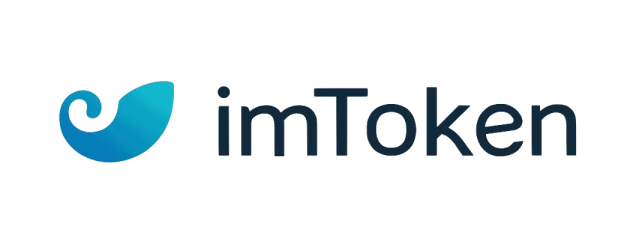
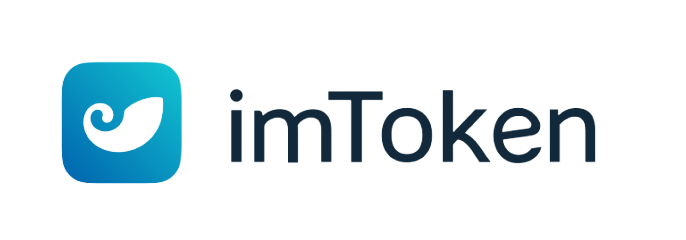
chore: add and update sponsors

Changed region(s): [[0.3125, 0.35, 0.9062, 0.7], [0.0625, 0.2333, 0.2812, 0.7875]]

diff --git a/public/constant/sponsors.ts b/public/constant/sponsors.ts
@@ -9,6 +9,13 @@ import {
   seleneUrl,
   zommaUrl,
   bloctoUrl,
+  gnosisChainUrl,
+  imTokenUrl,
+  dedaubUrl,
+  thunderCoreUrl,
+  furucomboUrl,
+  teaHouseUrl,
+  zkSyncUrl,
 } from "./urls";
 
 import code4Rena from "@/public/images/code4Rena.png";
@@ -21,6 +28,13 @@ import perpetual from "@/public/images/perpetual.png";
 import quantstamp from "@/public/images/quantstamp.png";
 import zomma from "@/public/images/zomma.png";
 import blocto from "@/public/images/Blocto.png";
+import gnosisChain from "@/public/images/gnosisChain.png";
+import imToken from "@/public/images/imToken.png";
+import dedaub from "@/public/images/dedaub.png";
+import thunderCore from "@/public/images/thunderCore.png";
+import furcombo from "@/public/images/furcombo.png";
+import teaHouse from "@/public/images/teaHouse.png";
+import zkSync from "@/public/images/zkSync.png";
 
 import { StaticImageData } from "next/image";
 
@@ -34,29 +48,50 @@ type OrganizerProps = {
 
 const goldSponsors: OrganizerProps[] = [
   {
+    name: "Gnosis Chain",
+    url: gnosisChainUrl,
+    logo: gnosisChain,
+    width: 760,
+    height: 180,
+  },
+  {
+    name: "ImToken",
+    url: imTokenUrl,
+    logo: imToken,
+    width: 456,
+    height: 160,
+  },
+  {
     name: "Autopass",
     url: autopassUrl,
     logo: autopass,
-    width: 363,
+    width: 292,
     height: 150,
   },
   {
     name: "Tenderly",
     url: tenderlyUrl,
     logo: tenderly,
-    width: 400,
+    width: 300,
     height: 150,
   },
   {
     name: "Term Structure",
     url: termStructureUrl,
     logo: termStructure,
-    width: 418,
+    width: 300,
     height: 150,
   },
 ];
 
 const silverSponsors: OrganizerProps[] = [
+  {
+    name: "DEDAUB",
+    url: dedaubUrl,
+    logo: dedaub,
+    width: 351,
+    height: 90,
+  },
   {
     name: "quantstamp",
     url: quantstampUrl,
@@ -65,6 +100,13 @@ const silverSponsors: OrganizerProps[] = [
     height: 120,
   },
   { name: "Selene", url: seleneUrl, logo: selene, width: 291, height: 120 },
+  {
+    name: "ThunderCore",
+    url: thunderCoreUrl,
+    logo: thunderCore,
+    width: 366,
+    height: 100,
+  },
 ];
 
 const bronzeSponsors: OrganizerProps[] = [
@@ -90,10 +132,31 @@ const bronzeSponsors: OrganizerProps[] = [
     height: 80,
   },
   {
+    name: "Furucombo",
+    url: furucomboUrl,
+    logo: furcombo,
+    width: 256,
+    height: 80,
+  },
+  {
     name: "perpetual",
     url: perpetualUrl,
     logo: perpetual,
     width: 342,
+    height: 80,
+  },
+  {
+    name: "Teahouse",
+    url: teaHouseUrl,
+    logo: teaHouse,
+    width: 210,
+    height: 80,
+  },
+  {
+    name: "zkSync",
+    url: zkSyncUrl,
+    logo: zkSync,
+    width: 242,
     height: 80,
   },
   {

diff --git a/components/HomePage/Sponsors.tsx b/components/HomePage/Sponsors.tsx
@@ -16,37 +16,15 @@ const Sponsors = () => {
       <MainContent>
         <Title>{t.homepage.sponsors}</Title>
         <SponsorsContainer>
-          {goldSponsors.map((s) => (
-            <GoldSponsorBtn key={s.name} onClick={() => openNewTab(s.url)}>
-              <Image
+          {[...goldSponsors, ...silverSponsors, ...bronzeSponsors].map((s) => (
+            <SponsorBtn key={s.name} onClick={() => openNewTab(s.url)}>
+              <StyledImage
                 src={s.logo}
                 alt={s.name}
                 width={s.width}
                 height={s.height}
               />
-            </GoldSponsorBtn>
-          ))}
-
-          {silverSponsors.map((s) => (
-            <SilverSponsorBtn key={s.name} onClick={() => openNewTab(s.url)}>
-              <Image
-                src={s.logo}
-                alt={s.name}
-                width={s.width}
-                height={s.height}
-              />
-            </SilverSponsorBtn>
-          ))}
-
-          {bronzeSponsors.map((s) => (
-            <BronzeSponsorBtn key={s.name} onClick={() => openNewTab(s.url)}>
-              <Image
-                src={s.logo}
-                alt={s.name}
-                width={s.width}
-                height={s.height}
-              />
-            </BronzeSponsorBtn>
+            </SponsorBtn>
           ))}
         </SponsorsContainer>
       </MainContent>
@@ -92,7 +70,7 @@ const SponsorsContainer = styled.div`
   margin-top: 20px;
 `;
 
-const GoldSponsorBtn = styled.button`
+const SponsorBtn = styled.button`
   display: flex;
   flex-direction: column;
   align-items: center;
@@ -113,12 +91,11 @@ const GoldSponsorBtn = styled.button`
   }
 `;
 
-const SilverSponsorBtn = styled(GoldSponsorBtn)`
-  /* width: 300px;
-  height: 120px; */
-`;
-
-const BronzeSponsorBtn = styled(GoldSponsorBtn)`
-  /* width: 240px;
-  height: 100px; */
+const StyledImage = styled(Image)<{ width: number; height: number }>`
+  width: ${({ width }) => width}px;
+  height: ${({ height }) => height}px;
+  @media (max-width: 768px) {
+    width: 90%;
+    height: auto;
+  }
 `;

diff --git a/public/constant/urls.ts b/public/constant/urls.ts
@@ -23,6 +23,11 @@ export const autopassUrl = "https://autopass.xyz/";
 export const termStructureUrl = "https://termstructure.com/";
 export const seleneUrl = "https://www.selene-web3aggregator.io/";
 export const ethereumOrgUrl = "https://ethereum.org/en/";
+export const gnosisChainUrl = "https://www.gnosis.io/";
+export const dedaubUrl = "https://dedaub.com/";
+export const thunderCoreUrl = "https://www.thundercore.com/";
+export const teaHouseUrl = "https://teahouse.finance/";
+export const zkSyncUrl = "https://zksync.io/";
 
 export const taikaiUrl = "https://taikai.network/";
 export const unlockUrl = "https://unlock-protocol.com/";
@@ -37,4 +42,4 @@ export const zommaUrl = "https://zomma.pro/";
 export const ethPlanetUrl = "https://www.ethplanet.org/";
 export const ethereumFoundationUrl = "https://ethereum.foundation/";
 
-export const bloctoUrl = 'https://twitter.com/BloctoApp'
+export const bloctoUrl = "https://twitter.com/BloctoApp";
